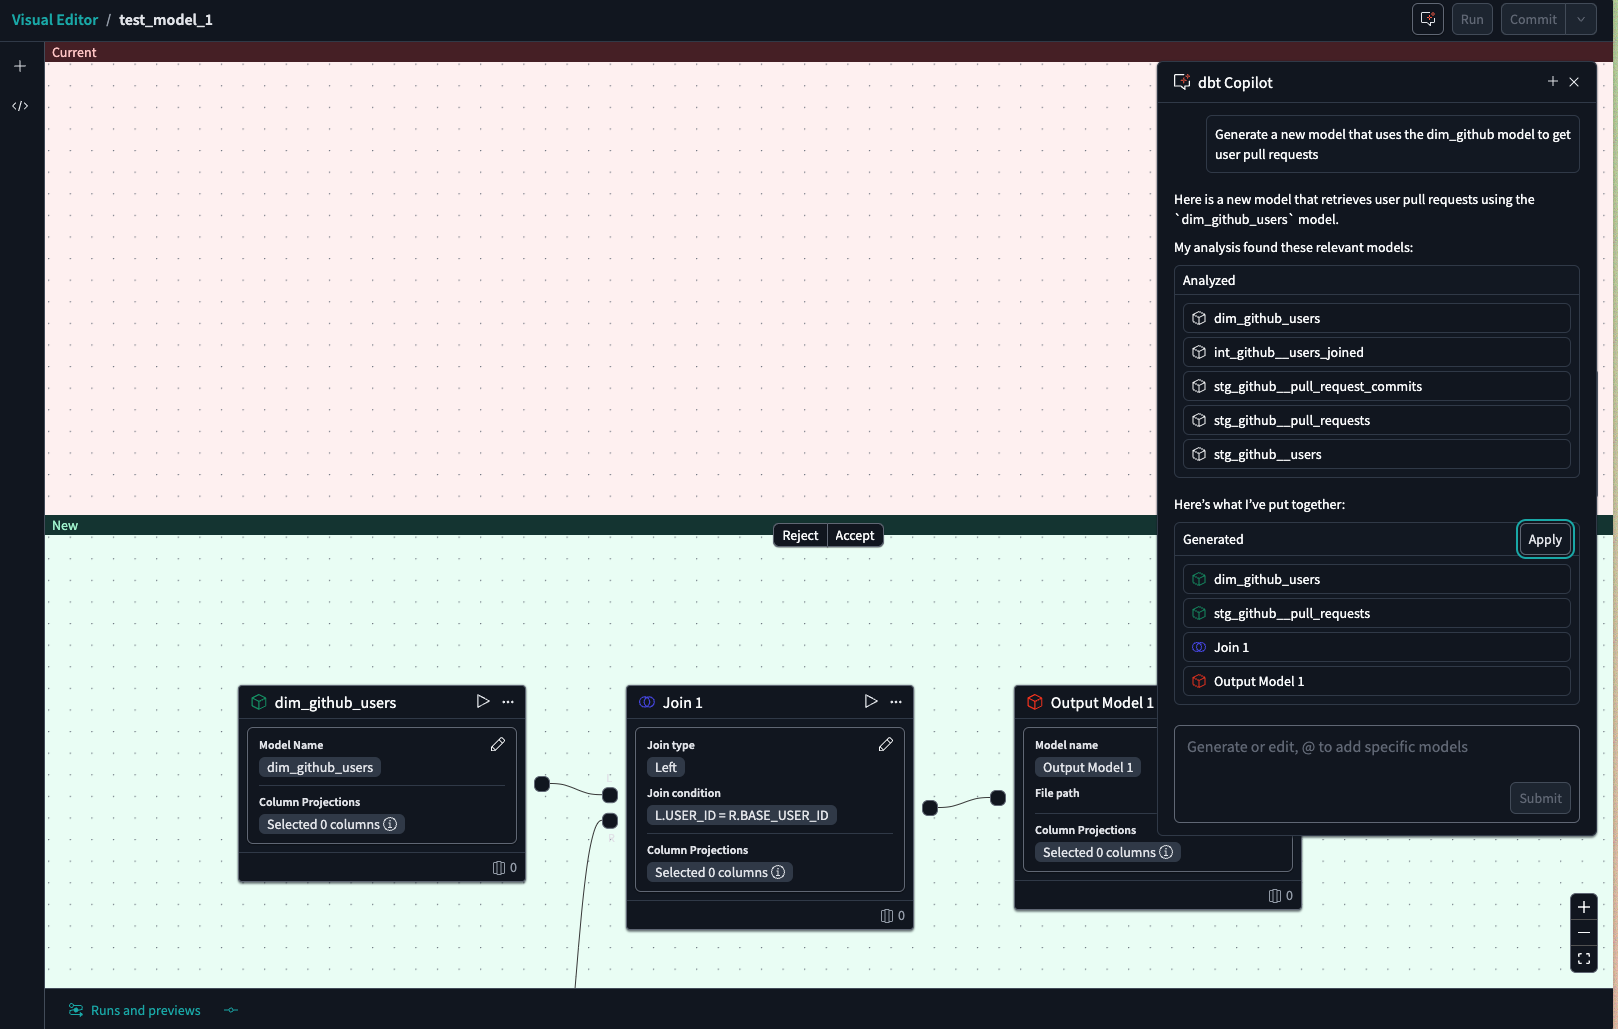
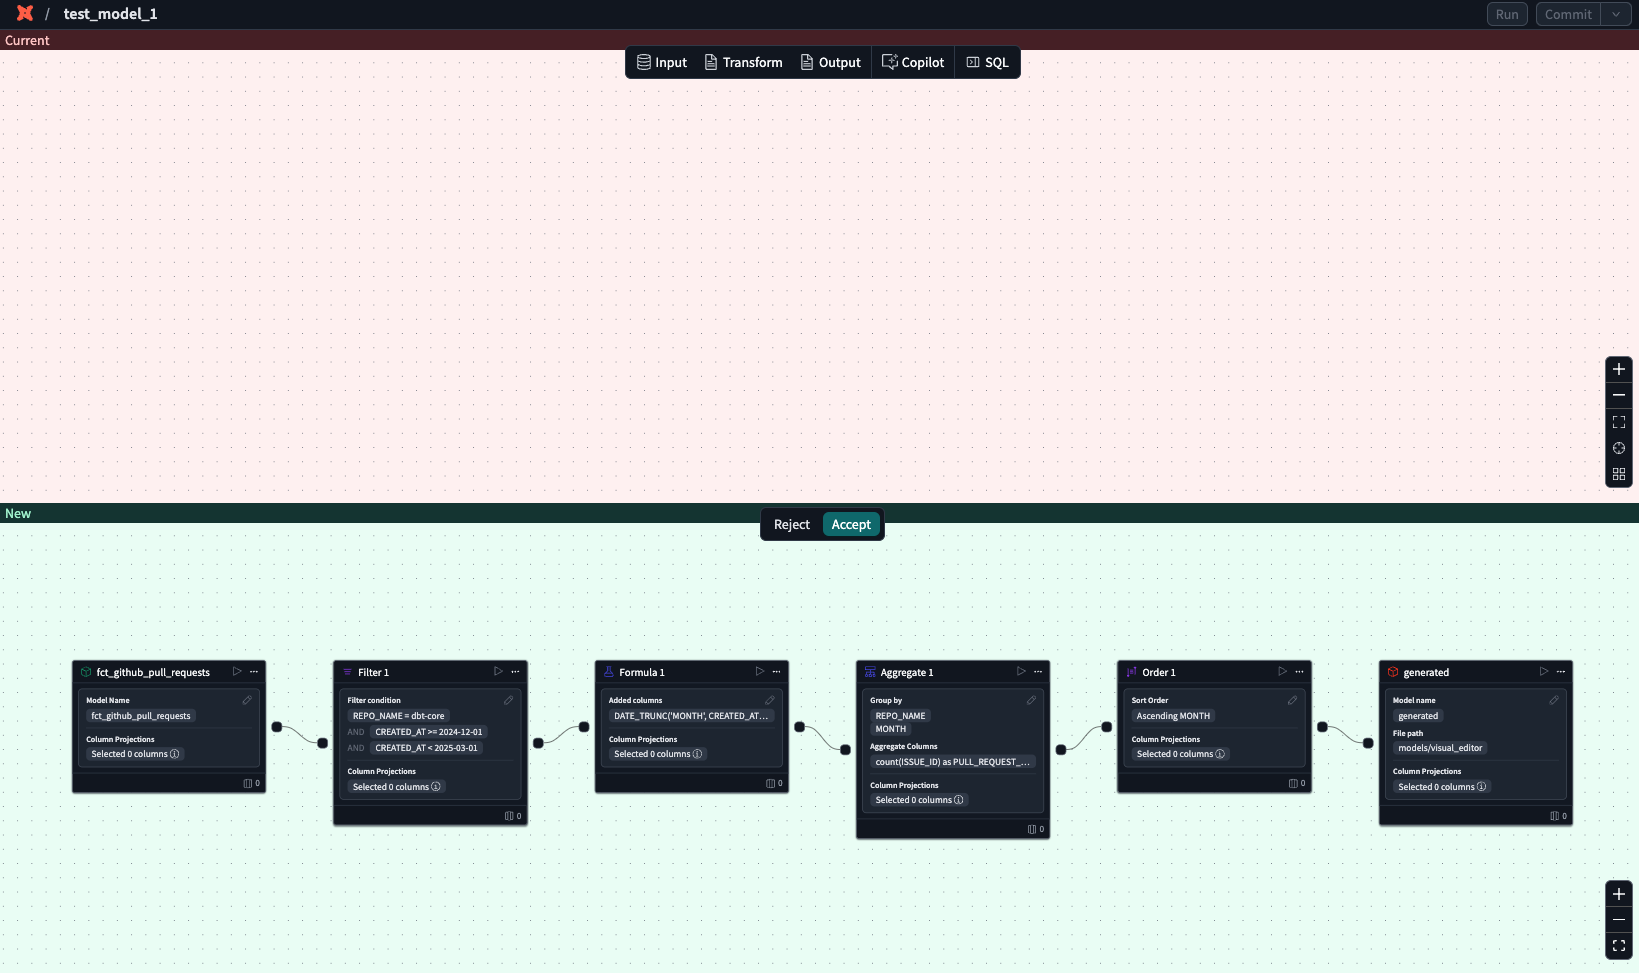
update ve copilot

diff --git a/website/snippets/_use-copilot-ve.md b/website/snippets/_use-copilot-ve.md
@@ -1,15 +1,18 @@
 To begin building models with natural language prompts in the Visual Editor:
 
-1. Click on the **dbt Copilot** icon in Visual Editor.
-2. In the dbt Copilot prompt box, enter your prompt in natural language for dbt Copilot to build the model(s) you want. You can reference existing models using the `@` symbol. For example, to build a model that calculates the total price of orders, you can enter `@orders` in the prompt and it'll use the `orders` model as a source.
-3. Click **Generate** and dbt Copilot generates a summary of the model(s) you want to build.
+1. Click on the **dbt Copilot** icon in Visual Editor menu.
+2. In the dbt Copilot prompt box, enter your prompt in natural language for dbt Copilot to build the model(s) you want. You can also reference existing models using the `@` symbol. For example, to build a model that calculates the total price of orders, you can enter `@orders` in the prompt and it'll pull in and reference the `orders` model.
+3. Click **Generate** and dbt Copilot generates a summary of the model(s) you want to build. 
+   - To start over, click on the **+** icon. To close the prompt box, click **X**.
    <Lightbox src="/img/docs/dbt-cloud/copilot-generate.jpg" width="40%" title="Enter a prompt in the dbt Copilot prompt box to build models using natural language" />
 4. Click **Apply** to generate the model(s) in the Visual Editor.
 5. dbt Copilot displays a visual "diff" view to help you compare the proposed changes with your existing code. Review the diff view in the canvas to see the generated operators built by dbt Copilot:
    - White: Located in the top of the canvas and means existing set up or blank canvas that will be removed or replaced by the suggested changes.
    - Green: Located in the bottom of the canvas and means new code that will be added if you accept the suggestion. <br / >
-   <Lightbox src="/img/docs/dbt-cloud/copilot-diff.jpg" width="85%" title="Visual diff view of proposed changes" />
+   <Lightbox src="/img/docs/dbt-cloud/copilot-diff.jpg" width="100%" title="Visual diff view of proposed changes" />
 6. Reject or accept the suggestions
-7. In the **Output** operator, click the play icon to preview the data
+7. In the **generated** operator box, click the play icon to preview the data
 8. Confirm the results or continue building your model.
-   <Lightbox src="/img/docs/dbt-cloud/copilot-output.jpg" width="85%" title="Output operator with play icon" />
+   <Lightbox src="/img/docs/dbt-cloud/copilot-output.jpg" width="100%" title="Use the generated operator with play icon to preview the data" />
+9.  To edit the generated model, open **dbt Copilot** prompt box and type your edits. 
+10. Click **Submit** and dbt Copilot will generate the revised model. Repeat steps 5-8 until you're happy with the model.
